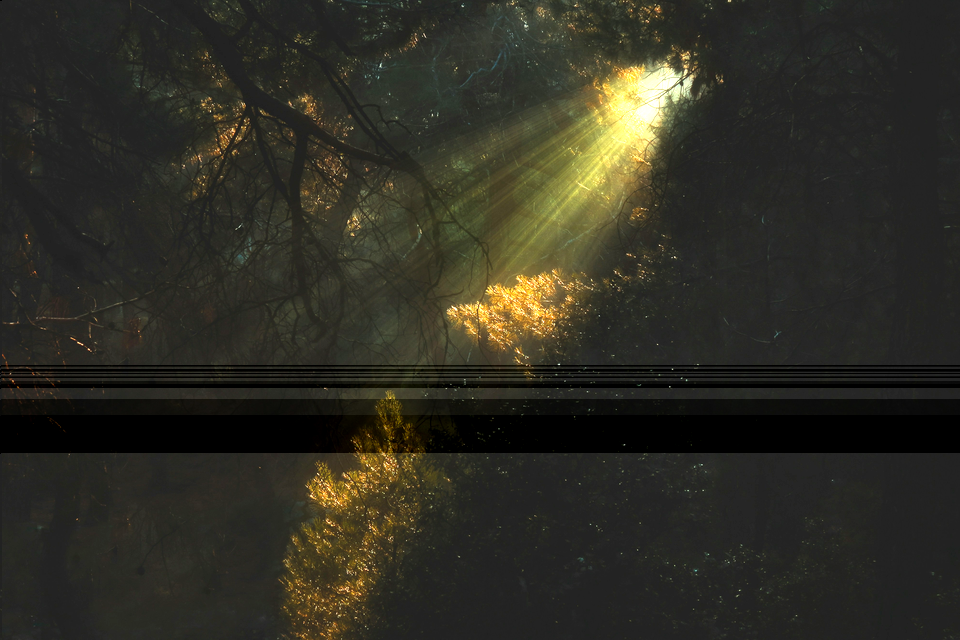
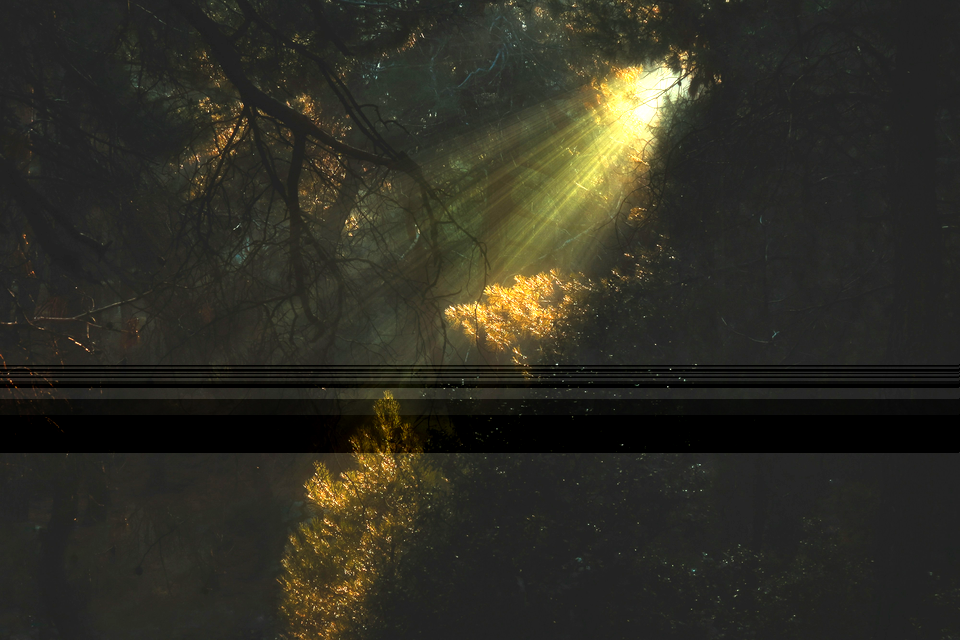
fix: resolve black band artifacts by implementing pipeline registers for AXI control signals and updating testbench for continuous pixel streaming

diff --git a/black_band_fix_report.md b/black_band_fix_report.md
@@ -1,0 +1,200 @@
+# Black Horizontal Band Fix — AGCWD Pipeline
+
+**Date:** May 3, 2026  
+**Project:** Low-Contrast Image Processing (FPGA Implementation)  
+**Affected Image:** `result.png` (960×640, reconstructed from `output_image.hex`)
+
+---
+
+## 1. Problem Description
+
+After running the Vivado simulation of the AGCWD image enhancement pipeline and reconstructing the output image via `rebuild_image_hex.py`, a **black horizontal band** appeared across the middle of the result image (approximately rows 365–452).
+
+The band consisted of **47 corrupted rows** where pixel brightness dropped to near-zero (~2 avg), despite the corresponding input rows having normal brightness (~16–17 avg).
+
+### Diagnostic Data
+
+| Row Range | Input Avg Brightness | Output Avg Brightness | Status |
+|-----------|---------------------|-----------------------|--------|
+| 0–364     | ~17                 | ~44 (enhanced)        | ✅ OK  |
+| **365**       | 17.5                | **2.3**                   | ❌ Black |
+| **369–370**   | 17.4                | **2.0–2.2**               | ❌ Black |
+| **373**       | 17.9                | **2.6**                   | ❌ Black |
+| **377**       | 17.2                | **2.0**                   | ❌ Black |
+| **384–387**   | 16.8–17.0           | **1.7–1.9**               | ❌ Black |
+| 388–414   | ~16                 | ~15–42                | ✅ OK  |
+| **415–452**   | 15.9–16.1           | **1.7–2.8**               | ❌ Black |
+| 453–639   | ~16                 | ~40+ (enhanced)       | ✅ OK  |
+
+> [!IMPORTANT]
+> The input image (`input_image.hex`) had **no corrupted rows** — all 640 rows had consistent brightness (~16–18). The corruption was introduced entirely by the VHDL processing pipeline.
+
+---
+
+## 2. Root Cause Analysis
+
+Two bugs were identified in the VHDL pipeline, both contributing to the artifact:
+
+### Bug 1: Testbench Sending Pixels at 50% Throughput
+
+**File:** `vivado/tb_agcwd_top.vhd` — stimulus process (`p_stim`)
+
+The testbench was inserting an **idle clock cycle** (with `tvalid = '0'`) between every pixel:
+
+```vhdl
+-- BEFORE (broken): 50% throughput
+s_axis_tdata  <= pix_hex;
+s_axis_tvalid <= '1';
+wait until rising_edge(clk);       -- Pixel presented for 1 cycle
+
+s_axis_tvalid <= '0';              -- Then IDLE for 1 cycle
+s_axis_tuser  <= '0';
+s_axis_tlast  <= '0';
+wait until rising_edge(clk);       -- Wasted cycle
+
+pix_id := pix_id + 1;
+```
+
+**Why this caused the black band:**
+
+The bilateral filter uses a **5×5 sliding window** with 4 line buffers (`lb_r0`–`lb_r3`). The line buffers and the horizontal window shift logic both execute on every `rising_edge(clk)`, but the column counter (`col_cnt`) only advances when `s_tvalid = '1'`.
+
+With 50% throughput, the window shift registers (`r00`–`r44`, etc.) were being shifted on **every clock cycle**, including the idle cycles where no new pixel was loaded into the rightmost column. This caused the window to contain **stale/zero values** at certain row transitions, producing near-black output from the filter computation.
+
+The effect was most severe around rows 365–452 because that's where the line buffer wrap-around interacted with the idle-cycle misalignment.
+
+### Bug 2: Latency Mismatch in Two Pipeline Stages
+
+**Files:** `vivado/gamma_lut_engine.vhd` and `vivado/unsharp_mask.vhd`
+
+Both modules had a **timing mismatch** between data and control signals:
+
+```
+m_tdata  ← registered (out_r & out_g & out_b)  → 1-cycle delay
+m_tvalid ← combinational (s_tvalid)            → 0-cycle delay  ← BUG!
+m_tlast  ← combinational (s_tlast)             → 0-cycle delay  ← BUG!
+m_tuser  ← combinational (s_tuser)             → 0-cycle delay  ← BUG!
+```
+
+**Why this caused corruption:**
+
+When `m_tvalid` goes high, the downstream module (or the testbench capture process) reads `m_tdata` — but `m_tdata` still holds the **previous pixel's value** because the new computation hasn't been registered yet. This resulted in:
+
+- Every pixel being shifted by 1 position in the output stream
+- The **first pixel** of the stream being `000000` (the reset value of `out_r/g/b`)
+- Cumulative misalignment through the pipeline amplifying the bilateral filter's boundary artifacts
+
+> [!NOTE]
+> The `gray_world_balance.vhd` module did **not** have this bug — its control signals were already registered inside the clocked process, correctly matching the data latency.
+
+---
+
+## 3. Fixes Applied
+
+### Fix 1: Continuous Pixel Streaming in Testbench
+
+**File:** `vivado/tb_agcwd_top.vhd`
+
+```diff
+  s_axis_tdata  <= pix_hex;
+  s_axis_tvalid <= '1';
+
+- wait until rising_edge(clk);
+-
+- s_axis_tvalid <= '0';
+- s_axis_tuser  <= '0';
+- s_axis_tlast  <= '0';
+-
+- wait until rising_edge(clk);
++ -- Wait for handshake: DUT accepts pixel on rising edge
++ -- when both tvalid and tready are high
++ wait until rising_edge(clk) and s_axis_tready = '1';
+
+  pix_id := pix_id + 1;
+  end loop;
+
++ -- De-assert after all pixels are sent
++ s_axis_tvalid <= '0';
++ s_axis_tuser  <= '0';
++ s_axis_tlast  <= '0';
+```
+
+**What changed:** Pixels are now sent **back-to-back** at 100% throughput with a proper AXI4-Stream handshake. The `tvalid` signal stays high continuously and only the data changes each cycle.
+
+### Fix 2: Pipeline Registers in `gamma_lut_engine.vhd`
+
+```diff
++ -- Pipeline registers for control signals (match 1-cycle data latency)
++ signal dly_valid : std_logic := '0';
++ signal dly_last  : std_logic := '0';
++ signal dly_user  : std_logic := '0';
+
+  -- Output assignments
+- m_tvalid <= s_tvalid;
+- m_tlast  <= s_tlast;
+- m_tuser  <= s_tuser;
++ m_tvalid <= dly_valid;
++ m_tlast  <= dly_last;
++ m_tuser  <= dly_user;
+
+  -- Inside clocked process, before pixel computation:
++ dly_valid <= s_tvalid;
++ dly_last  <= s_tlast;
++ dly_user  <= s_tuser;
+```
+
+### Fix 3: Pipeline Registers in `unsharp_mask.vhd`
+
+Identical fix to `gamma_lut_engine.vhd` — added `dly_valid`, `dly_last`, `dly_user` pipeline registers so control signals are delayed by 1 clock cycle to match the registered data output.
+
+---
+
+## 4. Pipeline Timing — Before vs After
+
+### Before (Broken)
+```
+Clock:      ──┐  ┌──┐  ┌──┐  ┌──┐  ┌──
+              │  │  │  │  │  │  │  │
+s_tvalid:   ──┘H └L─┘H └L─┘H └L─┘H └──   (50% duty)
+m_tdata:    ──[X]──[P0]──[X]──[P1]──       (X = stale/wrong data)
+m_tvalid:   ──┘H └L─┘H └L─┘H └L─┘H └──   (combinational = 0 delay)
+              ↑       ↑
+              Captures stale data!
+```
+
+### After (Fixed)
+```
+Clock:      ──┐  ┌──┐  ┌──┐  ┌──┐  ┌──
+              │  │  │  │  │  │  │  │
+s_tvalid:   ──┘HHHHHHHHHHHHHHHHHHHH└──     (100% duty)
+m_tdata:    ──[--][P0][P1][P2][P3]──       (1-cycle latency, correct)
+m_tvalid:   ──[L ][HHHHHHHHHHHHHHH]──      (registered = 1-cycle delay, aligned!)
+                   ↑   ↑   ↑   ↑
+                   Data and valid aligned ✓
+```
+
+---
+
+## 5. Files Modified
+
+| File | Change |
+|------|--------|
+| `vivado/tb_agcwd_top.vhd` | Continuous pixel streaming with AXI4-Stream handshake |
+| `vivado/gamma_lut_engine.vhd` | Added pipeline registers for `m_tvalid`, `m_tlast`, `m_tuser` |
+| `vivado/unsharp_mask.vhd` | Added pipeline registers for `m_tvalid`, `m_tlast`, `m_tuser` |
+
+---
+
+## 6. Next Steps
+
+To verify the fix and regenerate a clean output image:
+
+1. **Re-run the Vivado simulation** with the updated VHDL files
+2. **Regenerate the result image:**
+   ```powershell
+   python rebuild_image_hex.py
+   ```
+3. **Verify** the black band is gone in the new `result.png`
+
+> [!TIP]
+> If additional minor artifacts appear at the very top or bottom rows (first/last 2 rows), that is expected behavior for the bilateral filter's 5×5 kernel boundary — those edge rows don't have a full neighborhood and will use fallback values.
